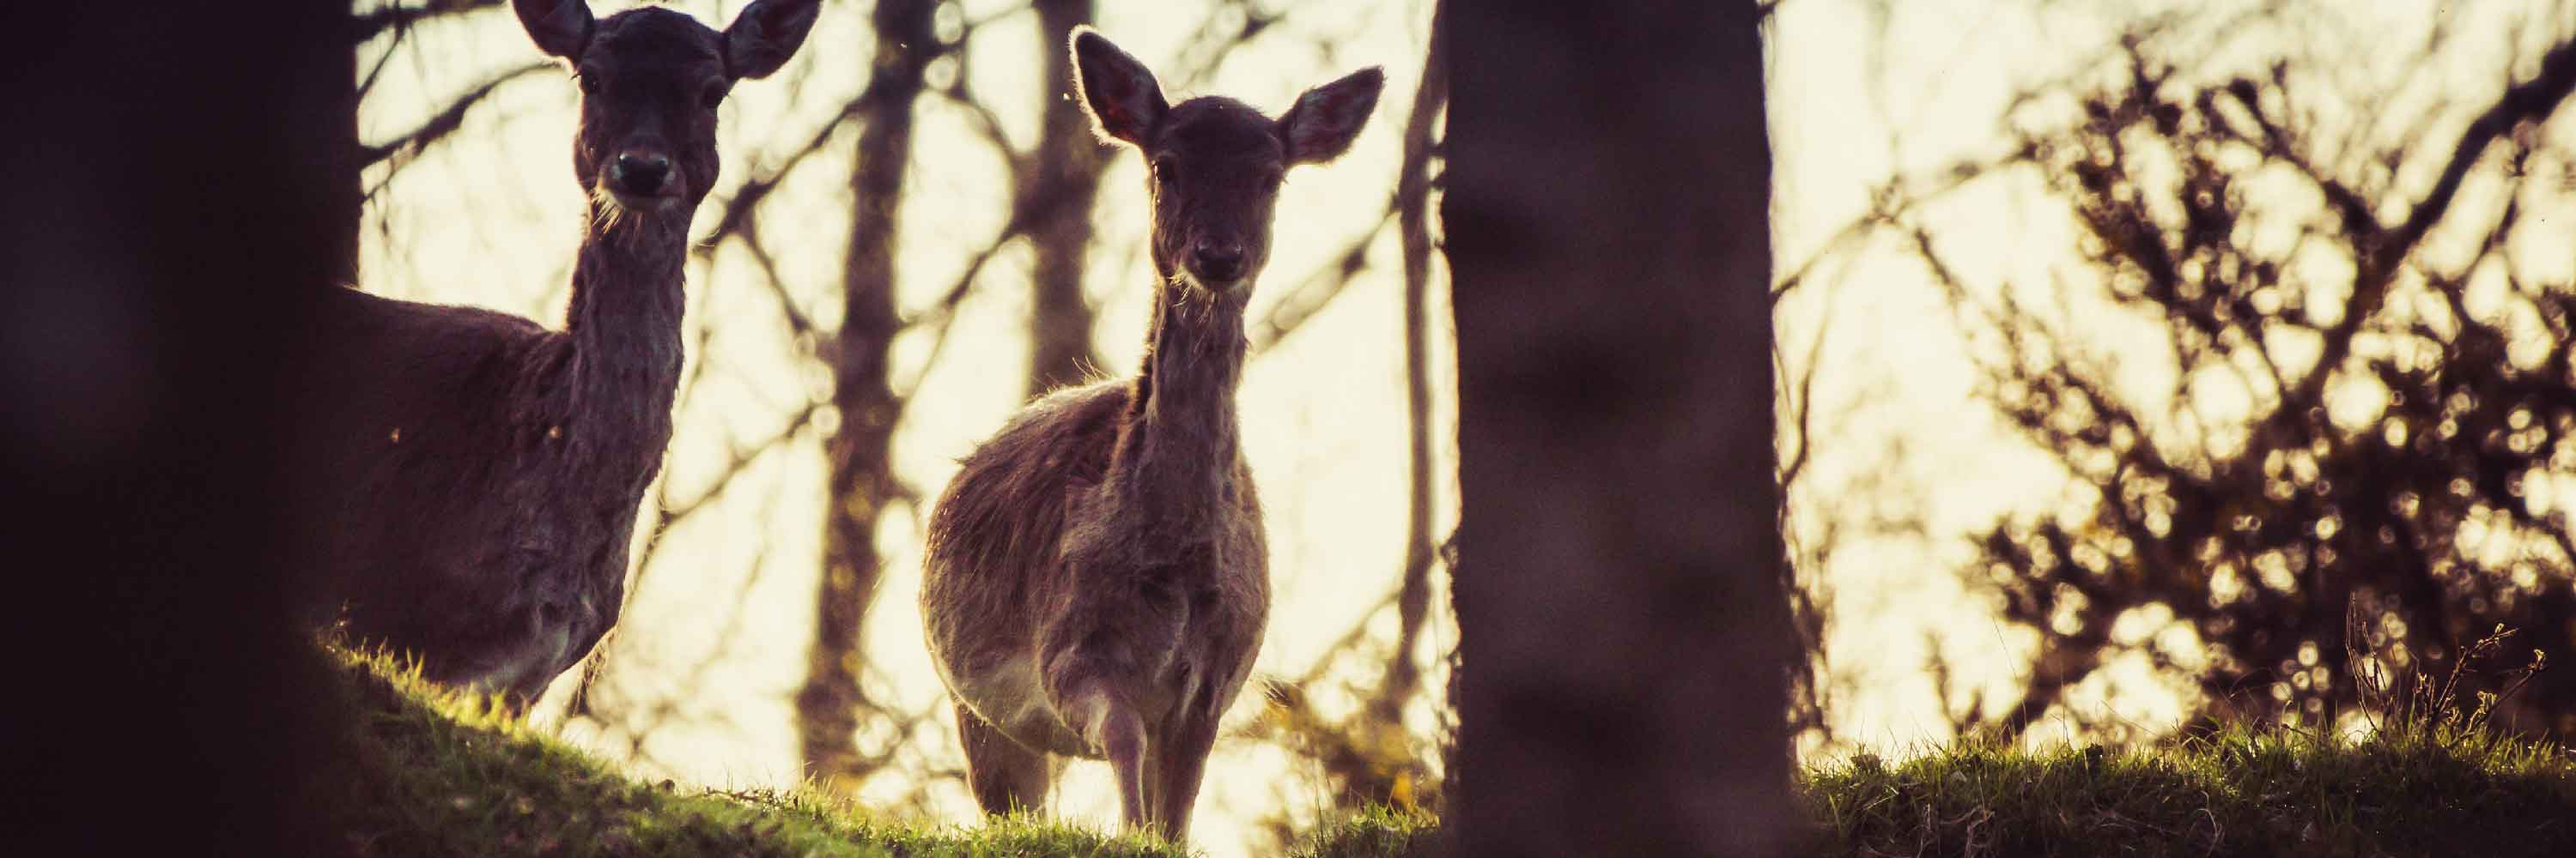
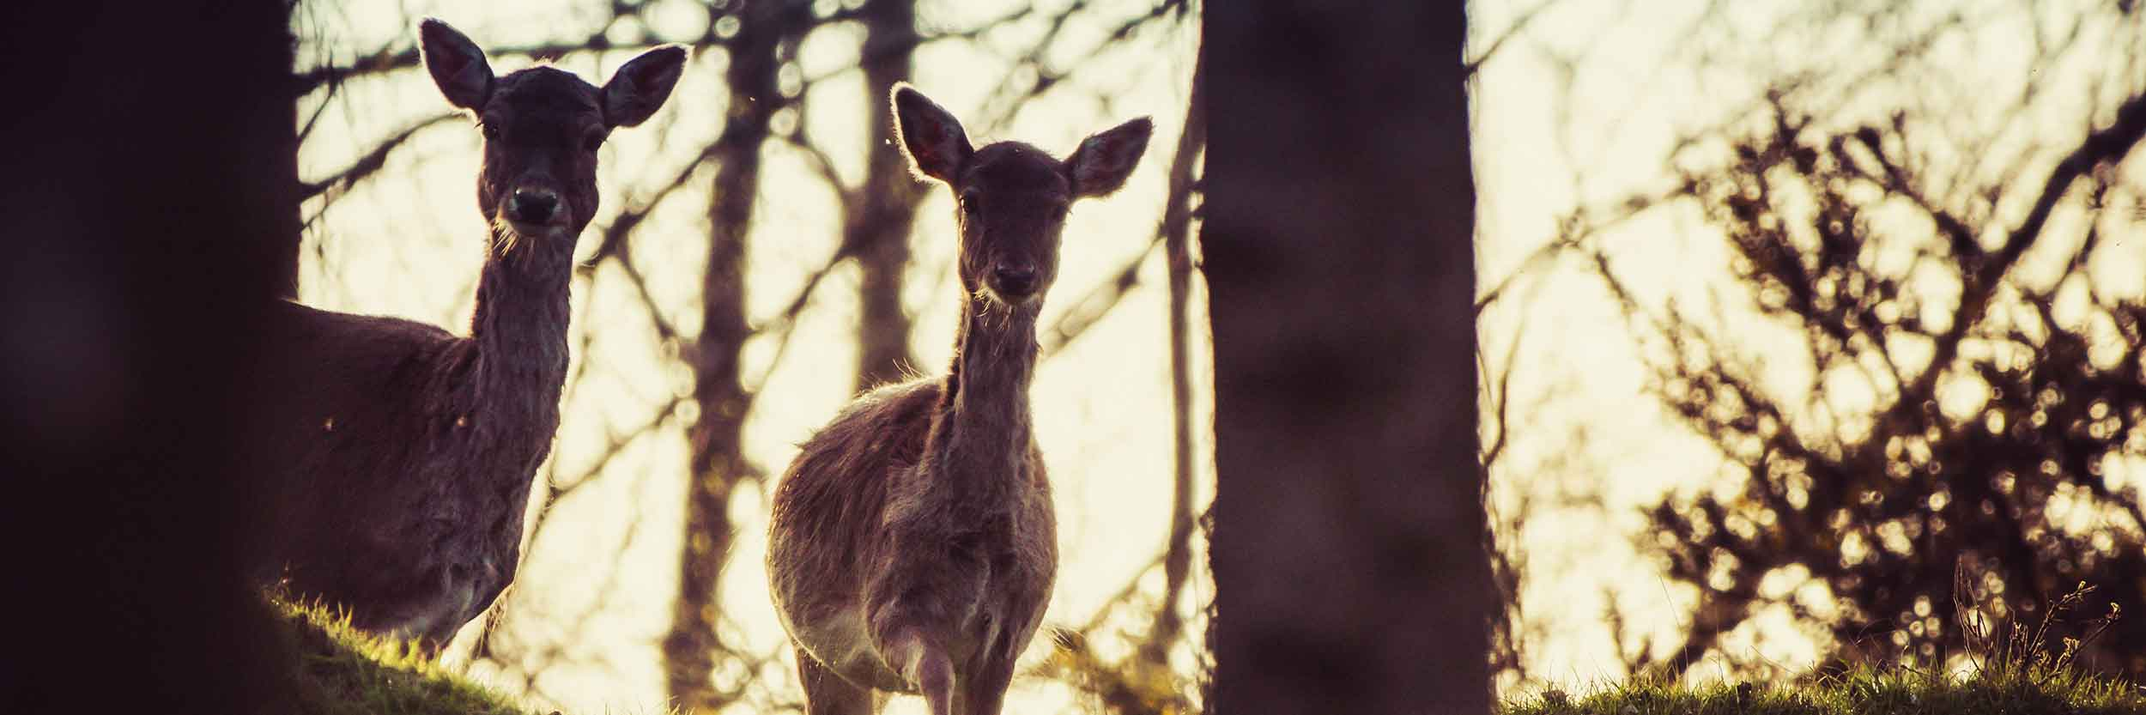
Adjust image sizes

diff --git a/rescues.html b/rescues.html
@@ -53,49 +53,39 @@
 
   <ul class="grid max-length list-group gutter-1-2">
     <li class="unit xs-1 s-1-2 m-1-2 l-1-2 xl-1-2 gutter-1-8">
-      <a class="" href="adopt.html">
-        <div class="rescue-card">
-          <img class="card-img" src="images/girraffe.jpg">
-          <p class="push-0">A giraffe can show you the world from a whole new perspective.</p>
-        </div>
-      </a>
+      <div class="rescue-card">
+        <img class="card-img" src="images/girraffe.jpg">
+        <p class="push-0">A giraffe can show you the world from a whole new perspective.</p>
+      </div>
     </li>
 
     <li class="unit xs-1 s-1-2 m-1-2 l-1-2 xl-1-2 gutter-1-8">
-      <a class="" href="adopt.html">
-        <div class="rescue-card">
-          <img class="card-img" src="images/peacock.jpg">
-          <p class="push-0">A peacock can add spunk and colour to your life.</p>
-        </div>
-      </a>
+      <div class="rescue-card">
+        <img class="card-img" src="images/peacock.jpg">
+        <p class="push-0">A peacock can add spunk and colour to your life.</p>
+      </div>
     </li>
 
     <li class="unit xs-1 s-1-2 m-1-2 l-1-2 xl-1-2 gutter-1-8">
-      <a class="" href="adopt.html">
-        <div class="rescue-card">
-          <img class="card-img" src="images/lion.jpg">
-          <p class="push-0">A lion can protect you from the most dangerous threat out there.</p>
-        </div>
-      </a>
+      <div class="rescue-card">
+        <img class="card-img" src="images/lion.jpg">
+        <p class="push-0">A lion can protect you from the most dangerous threat out there.</p>
+      </div>
     </li>
 
     <li class="unit xs-1 s-1-2 m-1-2 l-1-2 xl-1-2 gutter-1-8">
-      <a class="" href="adopt.html">
-        <div class="rescue-card">
-          <img class="card-img" src="images/tiger.jpg">
-          <p class="push-0 ">A tiger can give you courage when you need it the most.</p>
-        </div>
-      </a>
+      <div class="rescue-card">
+        <img class="card-img" src="images/tiger.jpg">
+        <p class="push-0 ">A tiger can give you courage when you need it the most.</p>
+      </div>
     </li>
 
     <li class="unit xs-1 s-1-2 m-1-2 l-1-2 xl-1-2 gutter-1-8">
-      <a class="" href="">
-        <div class="rescue-card">
-          <img class="card-img" src="images/deer.jpg">
-          <p class="push-0">A deer can provide you with the gift of innocence.</p>
-          <a href="adopt.html" class="btn btn-ghost">Adopt now</a>
-        </div>
-      </a>
+      <div class="rescue-card">
+        <img class="card-img" src="images/deer.jpg">
+        <p class="push-0">A deer can provide you with the gift of innocence.</p>
+        <a href="adopt.html" class="btn btn-ghost">Apply for adoption now</a>
+      </div>
     </li>
   </ul>
 </body>

diff --git a/css/main.css b/css/main.css
@@ -34,7 +34,6 @@ img {
   transition: all 300ms linear;
   border-radius: 0;
   border: none;
-  background-color: none;
   background-color: rgba(189, 156, 66, .7)
 }
 
@@ -188,6 +187,11 @@ header {
   transition: all 250ms ease;
 }
 
+.blank-card-1 {
+  width: 100%;
+  height: 100%;
+}
+
 .blank-card:hover {
   transform: scale(1.05);
   z-index: 2;
@@ -214,7 +218,7 @@ input[type="radio"]:checked + label {
 
 .form-item {
   border: .5px solid #5d5f63;
-  background-color: rgba(189, 156, 66, .1);
+  background-color: #f7eed4;
   height: 3em;
 }
 
@@ -223,7 +227,7 @@ input[type="radio"]:checked + label {
 }
 
 .radio-btn:hover {
-  color: rgba(189, 156, 66);
+  color: #bd9c42;
 }
 
 /* rescues page stuff */
@@ -233,6 +237,10 @@ input[type="radio"]:checked + label {
     linear-gradient(to top, rgba(189, 156, 66, .7), rgba(16, 52, 41, 0)) no-repeat center bottom / 100% 100%,
     url("../images/banner-deer.jpg") no-repeat center top / cover;
     height: 25em;
+}
+
+.rescue-card {
+  background-color:
 }
 
 /* media screen stuff */

diff --git a/index.html b/index.html
@@ -150,7 +150,7 @@
     </div>
   </section>
   <section class="grid gutter-1-2 wrapper">
-    <div class="unit xs-1 s-1 m-1-2 l-1-2 xl-1-2">
+    <div class="unit xs-1 s-1 m-1-2 l-1-2 xl-1-2 gutter push-2">
       <form method="post" action="//formspree.io/dano0015@algonquinlive.com" class="grid">
           <label class="unit xs-1 s-1 m-1 l-1 xl-1 push" for="email">Sign up for our weekly newsletter by entering your email address below to hear more about our rescues.</label>
           <input class="form-item unit xs-1 s-1 m-2-3 l-2-3 xl-2-3" type="email" id="email" required>
